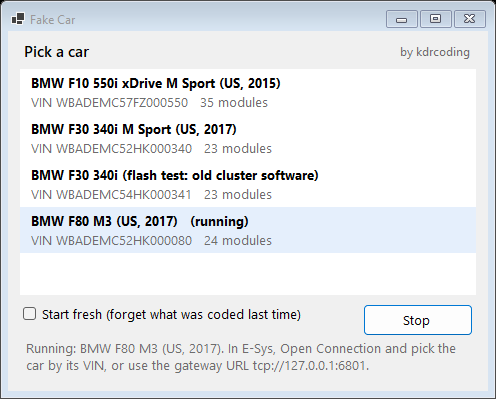
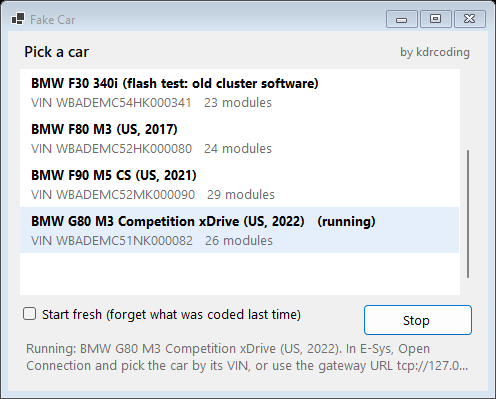
1.2.0: F90 M5 CS and G80 M3 Competition, builder adds modules E-Sys's target expects

diff --git a/builder/CarBuilder.java b/builder/CarBuilder.java
@@ -204,7 +204,21 @@ public final class CarBuilder {
                 if (!new HashSet<>(names).equals(new HashSet<>(java.util.Arrays.asList(p[3].trim().split(" "))))) changed++;
                 lines.add(p[0] + "\t" + p[1] + "\t" + p[2] + "\t" + software);
             }
-            out.println("Software: KIS target for " + current + " (" + changed + " modules adjusted)");
+            // Modules the target has that the fitting conditions above missed (E-Sys would show them red as missing).
+            Set<Integer> have = new HashSet<>();
+            for (String line : lines) have.add(Integer.parseInt(line.split("\t")[0], 16));
+            int added = 0;
+            for (ECU e : soll.getECUList()) {
+                int addr = e.getPrimaryDiagAddress().getOffsetAsInt();
+                List<SGBMID> ids = wanted.get(addr);
+                if (have.contains(addr) || ids == null || ids.isEmpty() || e.getBNTNName() == null) continue;
+                List<String> names = new ArrayList<>();
+                for (SGBMID id : ids) names.add(String.format("%s_%08X_%03d_%03d_%03d", id.getProcessClassAsString(), id.getIDAsLong(), id.getMainVersionAsInt(), id.getSubVersionAsInt(), id.getPatchVersionAsInt()));
+                lines.add(String.format("%02X\t%s\t%s\t%s", addr, e.getBNTNName(), e.getBNTNName(), String.join(" ", names)));
+                added++;
+            }
+            lines.sort(java.util.Comparator.comparingInt(l -> Integer.parseInt(l.split("\t")[0], 16)));
+            out.println("Software: KIS target for " + current + " (" + changed + " modules adjusted" + (added > 0 ? ", " + added + " added" : "") + ")");
             return lines;
         } catch (Throwable e) {
             out.println("Software: KIS target not available (" + String.valueOf(e.getMessage()).split("\\R")[0] + "), using the I-step lists");
@@ -408,7 +422,9 @@ public final class CarBuilder {
             else if (key.equals("TYP_MONT_LAND")) have = "W_" + f.getOrDefault("MLAND", "");
             else have = f.get(ALIAS.getOrDefault(key, key));
             if (have == null) return false;
-            return want.endsWith("*") ? have.startsWith(want.substring(0, want.length() - 1)) : have.equals(want);
+            if (want.endsWith("*")) return have.startsWith(want.substring(0, want.length() - 1));
+            // Some values carry a prefix the type data leaves off (TYP_FZGZUSDIFF=FZD_02 against FZDIFF=02).
+            return have.equals(want) || want.endsWith("_" + have);
         }
 
         static String yymm(String mmyy) {

diff --git a/README.md b/README.md
@@ -14,7 +14,7 @@ Use it to learn E-Sys, try a coding tool before it touches a real car, or record
 2. Start `FakeCar.exe`, pick a car, press **Start**. The first start of a car builds it from your PSdZData (about half a minute, once).
 3. In E-Sys, click **Open Connection** and either
    - pick the Fake Car by its VIN under **Connection via VIN**, or
-   - choose **Connection via gateway URL**, enter `tcp://127.0.0.1:6801`, pick the target for that car's series (F010 or F020), and tick **Read parameters from VCM**.
+   - choose **Connection via gateway URL**, enter `tcp://127.0.0.1:6801`, pick the target for that car's series (F010, F020, S15A or S18A), and tick **Read parameters from VCM**.
 4. Work as you would with a real car.
 
 Close the window to switch the car off. Everything you change stays for next time. Tick **Start fresh** to go back to the car as it left the factory.
@@ -22,7 +22,7 @@ Close the window to switch the car off. Everything you change stays for next tim
 ## What you need
 
 - Windows 10 or 11 (nothing else to install)
-- E-Sys with PSdZData: F010 for the F10, F020 for the F30 and M3
+- E-Sys with PSdZData: F010 for the F10, F020 for the F30 and F80 M3, S15A for the M5 CS, S18A for the G80 M3
 
 ## What you can do with it
 
@@ -34,7 +34,7 @@ Close the window to switch the car off. Everything you change stays for next tim
 | Read SVT, KIS and TAL calculation | Yes |
 | Read coding, code modules | Yes, kept for next time |
 | Flash software | Yes, the module reports the new version |
-| FSC codes (store, read, check, cancel) | Head unit and instrument cluster |
+| FSC codes (store, read, check, cancel) | Head unit and instrument cluster, F-series cars (G-series use SFA, which needs BMW's backend) |
 | Read and clear fault memory | Yes |
 | Module reset | Yes |
 
@@ -48,6 +48,8 @@ Tested with E-Sys 25.10: connecting, reading and writing FA, FP and I-steps, SVT
 | BMW F30 340i M Sport (US, 2017) | `cars\F30_340i_US` | 23 |
 | BMW F30 340i with old cluster software, for flash practice | `cars\F30_340i_US_flashtest` | 23 |
 | BMW F80 M3 (US, 2017) | `cars\F80_M3_US` | 24 |
+| BMW F90 M5 CS (US, 2021) with old cluster software, for flash practice | `cars\F90_M5_CS_US` | 29 |
+| BMW G80 M3 Competition xDrive (US, 2022) | `cars\G80_M3_Competition_US` | 26 |
 
 Every VIN is made up.
 
@@ -57,11 +59,11 @@ Each car is built on your own PC from your own PSdZData, the way the factory put
 
 <img src="docs/esys-flash.png" alt="E-Sys TAL-Calculating with the Fake Car: the instrument cluster is marked for flashing" width="768">
 
-Use the **F30 340i with old cluster software**: its instrument cluster still has the software it was built with.
+Use the **F90 M5 CS** or the **F30 340i with old cluster software**: their instrument cluster still has the software it was built with.
 
 1. **Comfort Mode > TAL-Calculating**.
 2. Vehicle Order: **Read**. SVT Actual: **Read (ECU) without smart actuators**.
-3. SVT Target: tick **Complete Flash**, set **I-Step (shipm.)** to the car's `ISTEP_SHIPMENT` from `car.txt` (F020-17-07-503 for the F30), then **Calculate**.
+3. SVT Target: tick **Complete Flash**, set **I-Step (shipm.)** to the car's `ISTEP_SHIPMENT` from `car.txt` (S15A-21-03-540 for the M5 CS, F020-17-07-503 for the F30), then **Calculate**.
 4. TAL: **TAL calculation**, **Save**, then **Execute**.
 
 ## Write FA and FP
